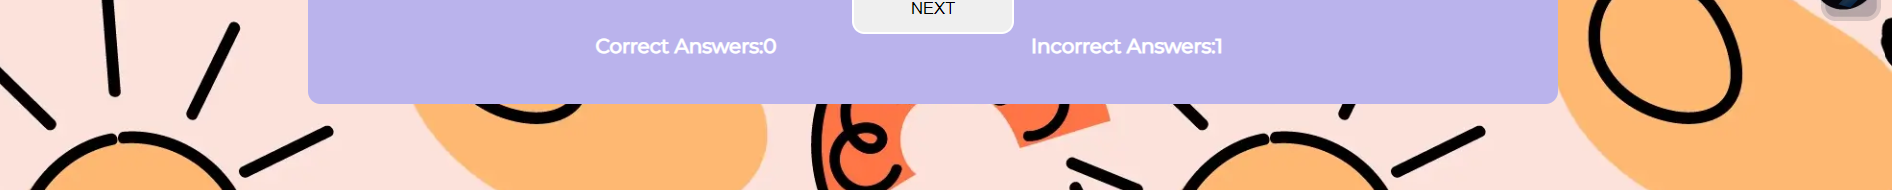
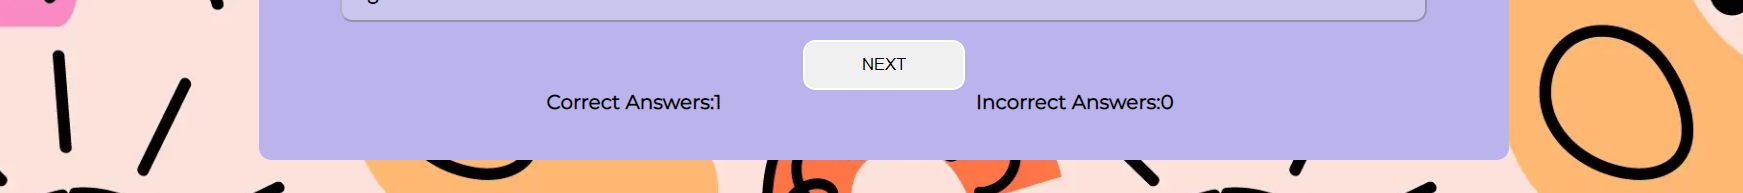
Change screenshot images for welcome message and increment score within readme due to previous contrast adjustments

diff --git a/README.md b/README.md
@@ -7,7 +7,7 @@ Even though the quiz has some tricky questions, they are all simple and don't re
 ## FEATURES
 ### Main header
 * This is shown the same on every page for consistent design, it does change however to a personalised, welcome message as soon as user enters a username. Once user clicks 'start' located under the welcome message, the user is taken to a quiz and the header from that moment includes a link which user can use if they want to be taken back to home page/ instructions page.
-* When hovered over, the header will change the colour. Simple, not busy design, allowing the user to easily navigate back to the beggining.
+* When hovered over, the header will change the colour. Simple, not busy design, allows the user to easily navigate back to the beggining.
 ![main_header](assets/docs/main_header.png)
 ### Home page
 * The home page includes two features below the header.
@@ -23,7 +23,7 @@ Even though the quiz has some tricky questions, they are all simple and don't re
 ### Quiz page
 * Once user clicks the start button below previously seen welcome message, they will be taken to a quiz page.  Five features have been implemented here:
 #### Timer
-* Displayed at the top left close to the header. The aim of this feature is for the user to be able to track the time taken to answer the questions. This will not be shown in leaderboard but as the aim of the quiz is to answer the 10 questions correctly as quick as possible, each user can see the progress for themselves and see the total time taken to commplete quiz in final score message.
+* Displayed at the top left close to the header. The aim of this feature is for the user to be able to track the time taken to answer the questions. This will not be shown in leaderboard but as the aim of the quiz is to answer the 10 questions correctly as quick as possible, each user can see the progress for themselves and see the total time taken to complete quiz in final score message.
 ![quiz_page_timer](assets/docs/quiz_page_timer.png)
 #### Question displayed
 * The top of the page will display the question number followed by the question
@@ -103,6 +103,7 @@ Manual testing performed, to ensure website performs well on different browsers 
 * Devices
     * Iphone 13 Pro
     * Google Pixel 7 Pro 
+    * Motorola Edge 20
     * Surface Pro
     * Asus Vivobook
 
